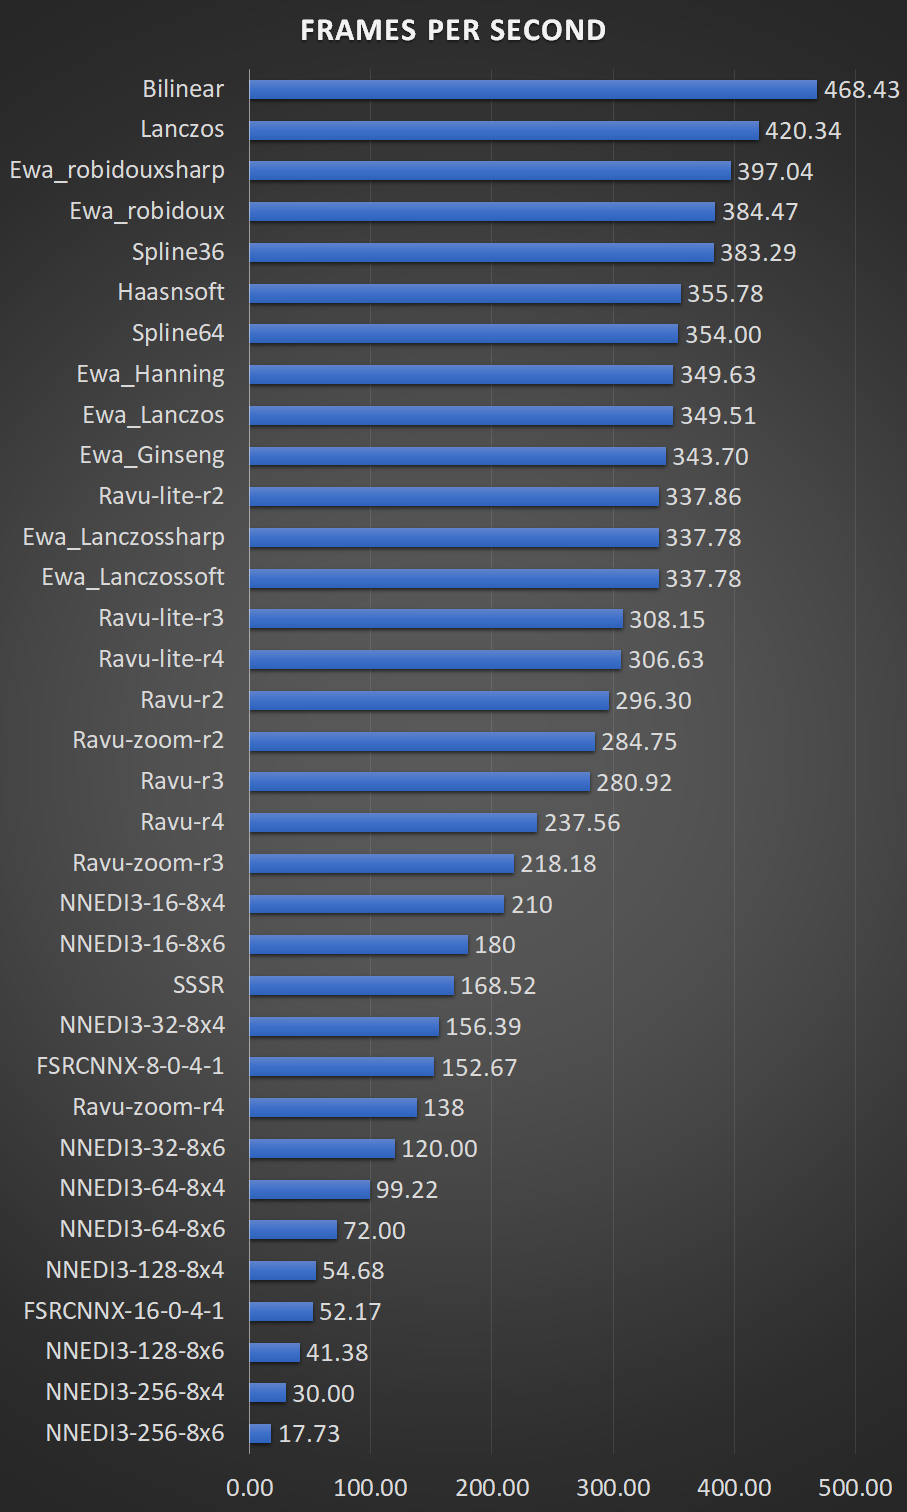
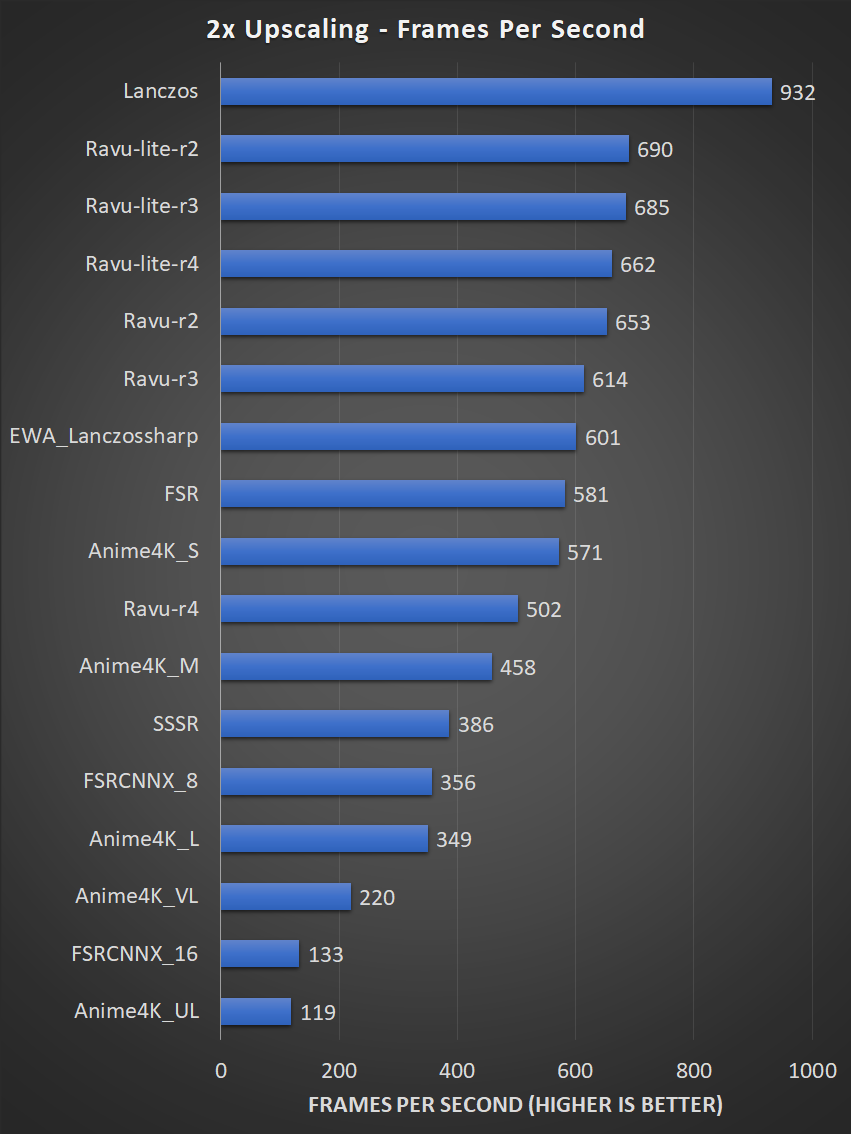
adding a new performance chart

Changed region(s): [[0.0, 0.0, 1.0, 1.0], [0.9166, 0.9259, 0.9777, 1.0]]

diff --git a/blog/mpv_upscaling.html b/blog/mpv_upscaling.html
@@ -108,12 +108,6 @@
         </p>
         
         <h3 id="methodology">Testing methodology</h3>
-        <!--<p>
-            Performance measurements were done upscaling an animation video encoded into 8bit AVC from 1280x720 to 2560x1440. Utilising mpv
-            with a benchmarking profile, all settings from profile=gpu-hq, with Vulkan as the renderer and hardware decoding turned off. The machine used has
-            an Ivy Bridge i5 3470, a Polaris RX 470 and user shaders were always compute shaders when possible. The methodology consists of letting mpv play the file for 4 seconds 
-            and then seeing at which frame it stopped. 
-        </p>-->
         <p>
             Quality measurements were done with an anime test image. Debanding was turned off to prevent loss of fine detail.
         </p>
@@ -246,6 +240,24 @@
         <p>
             I didn't exactly expect the "numerically better" filters to actually match subjective choices, 
             but Imagemagick's default orthogonal resampling filter is Lanczos for images without transparency. Likewise, Imagemagick uses EWA_Robidoux by default for distortion operations.
+        </p>
+        <p>
+            Performance tests were done with an 720p 4:2:0 8 bit H.264/AVC input video:
+        </p>
+        <code>mpv --no-config --profile=gpu-hq --vo=gpu-next --gpu-api=vulkan --audio=no --untimed=yes --video-sync=display-desync --vulkan-swap-mode=immediate --no-hidpi-window-scale --window-scale=2.0 --scale=filter --glsl-shader=shader input.mkv</code>
+        <p>
+            <img src="./images/mpv_upscaling/tables/fps.png" alt="fps" width="426" height="567" class="center">
+        </p>
+        <p>
+            I've decided to go ahead and benchmark using <a href="https://github.com/mpv-player/mpv/wiki/GPU-Next-vs-GPU">libplacebo</a> since it provides better performance and because I believe it'll eventually replace vo=gpu.
+        </p>
+        <p>
+            We can take a few things from this, orthogonal resampling is still faster than elliptical resampling by a significant margin. RAVU, FSR and the small variant of Anime4K are extremely fast, beating or matching ewa_lanczossharp. 
+            FSRCNNX_16 and the biggest variant of Anime4K are still reasonably easy to run as long as you have a semi-decent discrete GPU. I've benchmarked using an RX470, which is far from being "fast" by today's standards.
+        </p>
+        <p>
+            I didn't bother benchmarking filters/shaders that aren't worth considering. You can expect bilinear to be considerably faster than lanczos, but the other orthogonal filters should perform similarly. 
+            Likewise, you should not expect other elliptical filters to be considerably faster than ewa_lanczossharp. They all perform around each other. 
         </p>
     </section>
     <section>
@@ -587,6 +599,9 @@
     </section>
     <section>
         <h3 id="changelog">Changelog</h3>
+        <p>
+            26/03/2022: Adding a new performance chart.
+        </p>
         <p>
             22/03/2022: Replacing the geometric mean with the normalised average of the standardised metrics. The geometric mean is great at averaging different metrics together when these metrics 
             do not have similar ranges, as an arbitrary percentual improvement in any metric would warrant an identical improvement in the final number. However, a 20% (as an example) improvement in PSNR is not the same as 
